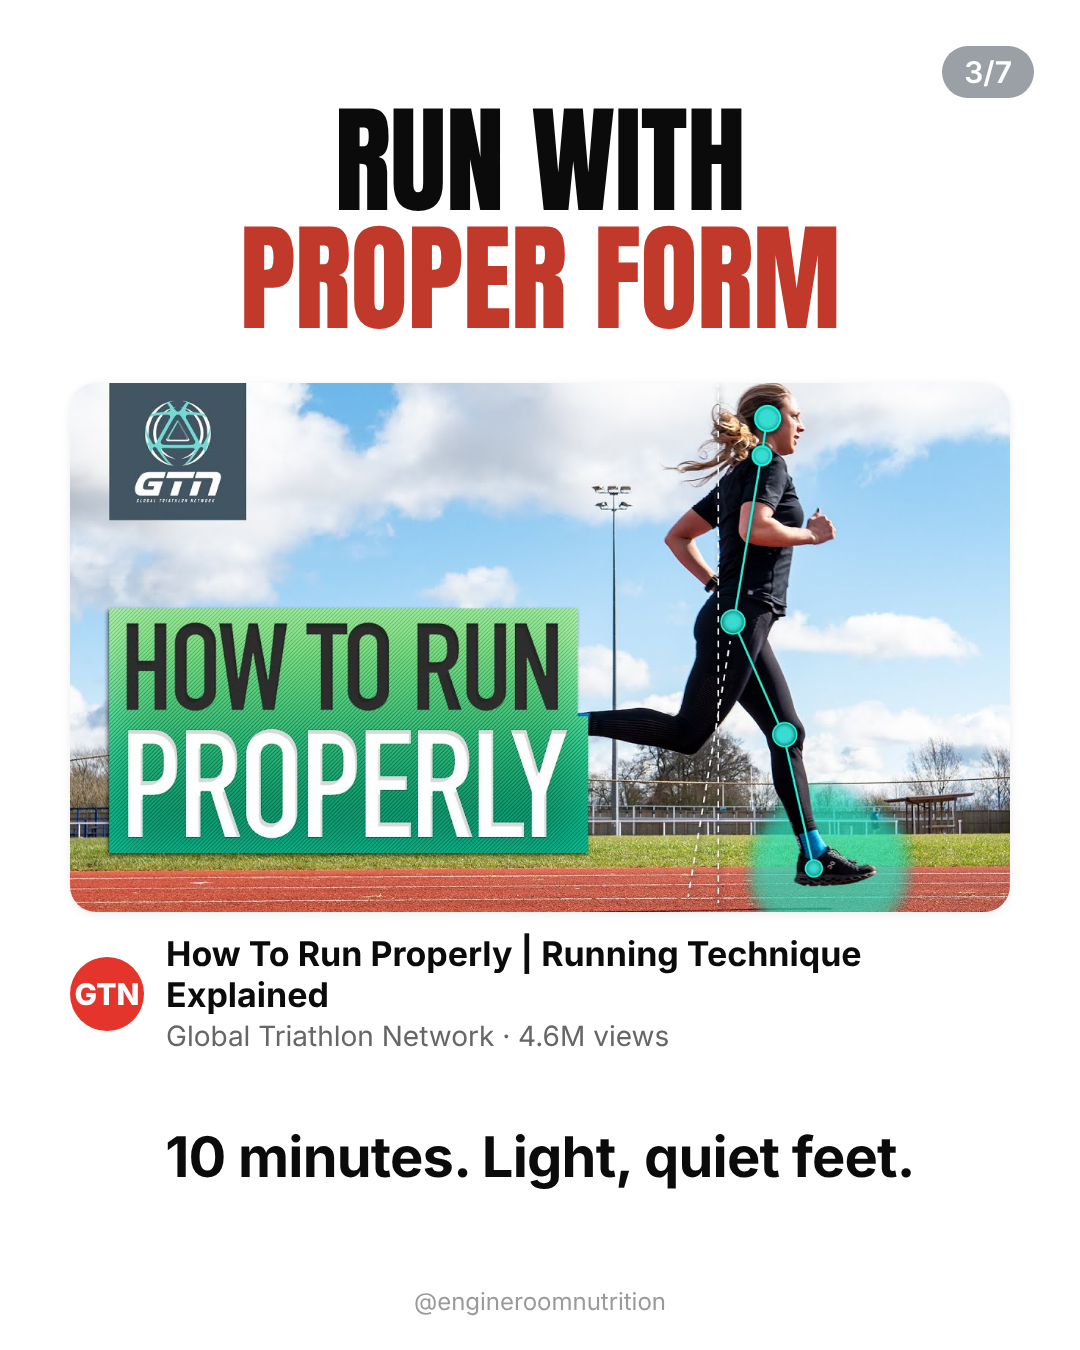
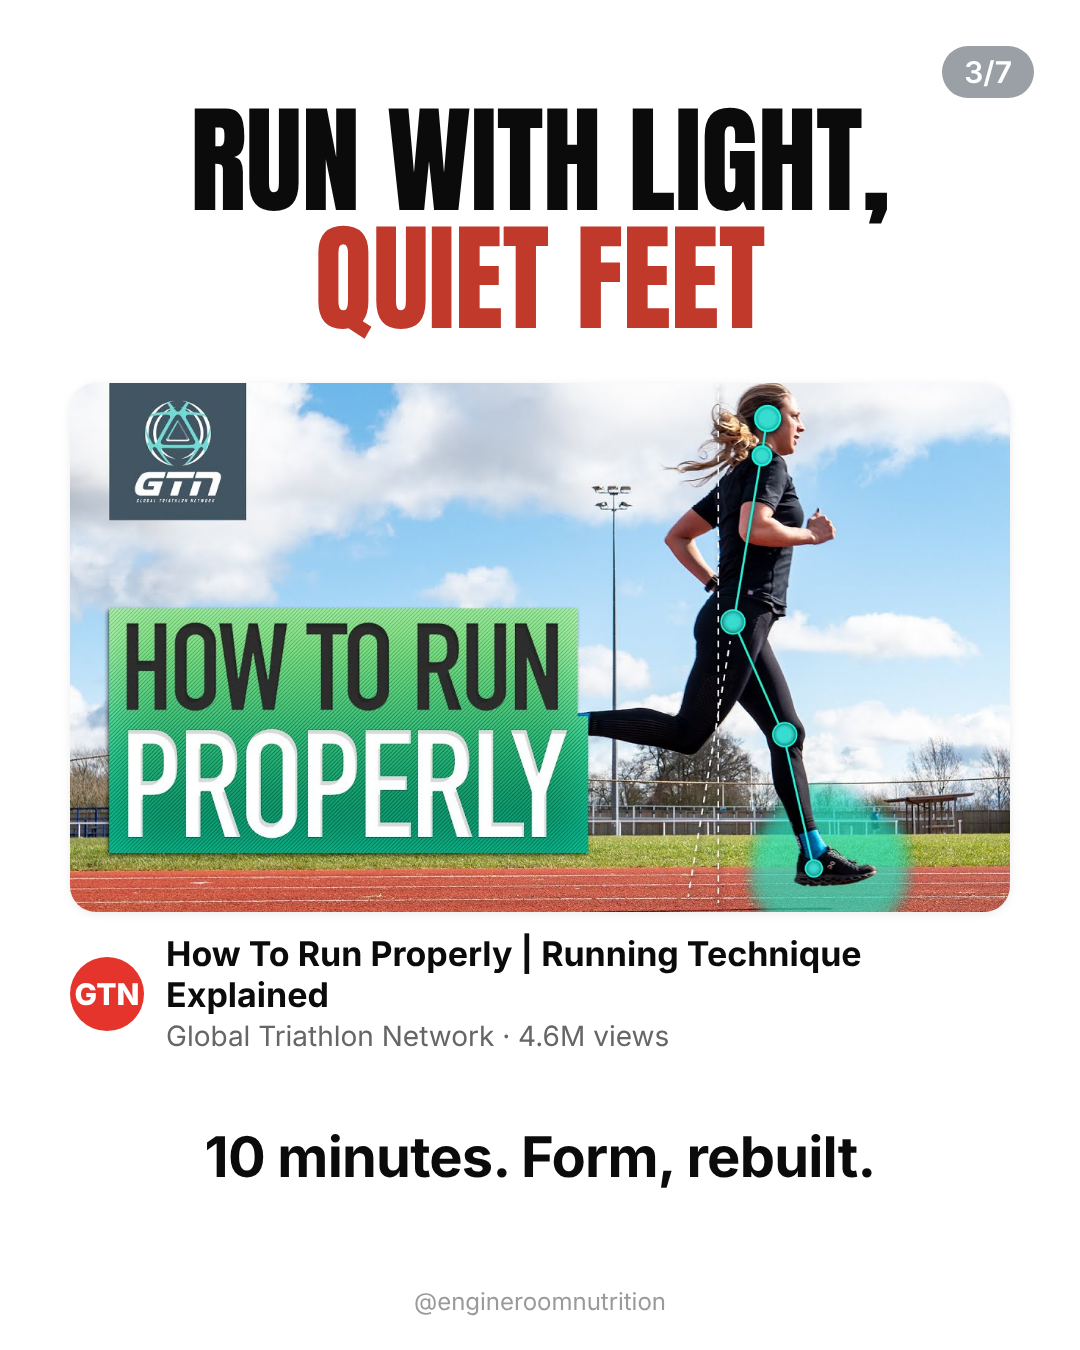
Carousel: mental-movie headlines, padlocked middle slide, comment PLAN
Claude-Session: https://claude.ai/code/session_01C5bFwjsy7wubJR84HAMdDJ

Changed region(s): [[0.1528, 0.0622, 0.825, 0.2489], [0.1528, 0.84, 0.825, 0.9022]]

diff --git a/motion/carousel-skills/carousel.html b/motion/carousel-skills/carousel.html
@@ -37,6 +37,7 @@ body{width:1080px;background:#fff;font-family:Inter,Arial,sans-serif;overflow:hi
 .signs{display:grid;grid-template-columns:repeat(4,1fr);gap:14px}
 .sg{background:#dfe7f3;border-radius:18px;padding:16px 8px;text-align:center;color:#5b6577;font-size:22px;font-weight:700;letter-spacing:2px}
 .sg div{font-size:46px;letter-spacing:0;color:#0f1730;filter:blur(8px)}
+.sg svg{display:block;margin:6px auto 0}
 .sg.on{background:#3d7be0;color:#dce8ff}.sg.on div{color:#fff;filter:none}
 .pill{display:flex;align-items:center;gap:20px;background:#111;color:#fff;border-radius:22px;padding:18px 26px;margin-top:22px}
 .pill .lg{width:70px;height:70px;border-radius:14px;background:#fff;color:#000;font-family:Anton;font-size:30px;display:flex;align-items:center;justify-content:center}
@@ -49,11 +50,11 @@ document.body.style.height=H+'px';
 const T='thumbs/';
 // [headline line 1, line 2, colour, thumb, avatar colour, initials, video title, channel · views · length, payoff]
 const S={
- 2:['BREATHE SO RUNNING','FEELS EASIER','#2342c8','11-pxn34Lx3CYY.jpg','#3a3f47','NR','How to Breathe so Running Feels EASIER!','Nicklas Rossner · 3.8M views','9 minutes. Talk, don\'t gasp.'],
- 3:['RUN WITH','PROPER FORM','#c0392b','02-_kGESn8ArrU.jpg','#e4342b','GTN','How To Run Properly | Running Technique Explained','Global Triathlon Network · 4.6M views','10 minutes. Light, quiet feet.'],
- 5:['RUN SLOW ENOUGH','(ZONE 2)','#2e7d4f','03-VAsYTcBdtOg.jpg','#6b4f3a','SS','I Tried Zone 2 Training for 3 Months','Shervin Shares · 4.4M views','13 minutes. Easy finally feels easy.'],
- 6:['RAISE YOUR','RUNNING CADENCE','#d35400','04-eacl52qzr4E.jpg','#1f6fd1','BP','How to Improve & Increase Running Cadence','Ben Parkes · 821K views','7 minutes. Quicker, lighter steps.'],
- 7:['LOCK YOUR HEELS','IN YOUR SHOES','#8a6a2f','05-jG_XzEjD9Ls.jpg','#2b2b2b','PF','How to tie a heel lock (Racer\'s Loop)','Profeet · 784K views','1 minute. No more heel slip.'],
+ 2:['RUN WITHOUT','GASPING FOR AIR','#2342c8','11-pxn34Lx3CYY.jpg','#3a3f47','NR','How to Breathe so Running Feels EASIER!','Nicklas Rossner · 3.8M views','9 minutes. 5 breathing fixes.'],
+ 3:['RUN WITH LIGHT,','QUIET FEET','#c0392b','02-_kGESn8ArrU.jpg','#e4342b','GTN','How To Run Properly | Running Technique Explained','Global Triathlon Network · 4.6M views','10 minutes. Form, rebuilt.'],
+ 5:['HOLD A CHAT ON','EVERY EASY RUN','#2e7d4f','03-VAsYTcBdtOg.jpg','#6b4f3a','SS','I Tried Zone 2 Training for 3 Months','Shervin Shares · 4.4M views','13 minutes. Zone 2, explained.'],
+ 6:['TAKE QUICKER,','LIGHTER STEPS','#d35400','04-eacl52qzr4E.jpg','#1f6fd1','BP','How to Improve & Increase Running Cadence','Ben Parkes · 821K views','7 minutes. Cadence, sorted.'],
+ 7:['STOP YOUR HEEL','SLIPPING MID-RUN','#8a6a2f','05-jG_XzEjD9Ls.jpg','#2b2b2b','PF','How to tie a heel lock (Racer\'s Loop)','Profeet · 784K views','1 minute. One extra loop.'],
 };
 const p=document.getElementById('p');
 const gap=H>1400?1:0.82;
@@ -67,14 +68,14 @@ if(n===1){
   <div class="small" style="font-size:28px;margin-top:8px">(save this for your next easy run)</div>`;
 } else if(n===4){
   p.innerHTML=`<div style="height:${Math.round(H*.075)}px"></div>
-  <div class="anton h1">HIT EVERY 10K<br><span style="color:#2f6fd6">SIGN ON TIME</span></div>
+  <div class="anton h1">KNOW YOUR TIME<br><span style="color:#2f6fd6">AT EVERY 10K SIGN</span></div>
   <div style="height:${Math.round(46*gap)}px"></div>
   <div class="site"><div class="clock"><div class="ct"><span>● YOUR FINISH TIME</span><span class="goal">GOAL</span></div>
     <div class="anton big">3:45<small>:00</small></div><div class="bar"><i></i><b></b></div>
     <div class="ticks"><span>3:00</span><span>4:15</span><span>5:30</span></div></div>
-    <div class="signs"><div class="sg on">10K SIGN<div>54:00</div></div><div class="sg">20K SIGN<div>1:48</div></div><div class="sg">30K SIGN<div>2:41</div></div><div class="sg">40K SIGN<div>3:34</div></div></div></div>
-  <div class="pay" style="margin-top:${Math.round(40*gap)}px">30 seconds. Your 4 times, free.</div>
-  <div class="pill" style="width:940px"><div class="lg">ERN</div><div class="tx"><div class="t1">engineroomnutrition.com</div><div class="t2">Free marathon pace plan · 100+ sent</div></div><div class="op">Open</div></div>`;
+    <div class="signs"><div class="sg on">10K SIGN<div>54:00</div></div><div class="sg">20K SIGN<div>1:48</div><svg width="34" height="40" viewBox="0 0 34 40"><path d="M8 17V11a9 9 0 0 1 18 0v6" fill="none" stroke="#b08a2e" stroke-width="4"/><rect x="2" y="17" width="30" height="21" rx="4" fill="#e0b84a"/></svg></div><div class="sg">30K SIGN<div>2:41</div><svg width="34" height="40" viewBox="0 0 34 40"><path d="M8 17V11a9 9 0 0 1 18 0v6" fill="none" stroke="#b08a2e" stroke-width="4"/><rect x="2" y="17" width="30" height="21" rx="4" fill="#e0b84a"/></svg></div><div class="sg">40K SIGN<div>3:34</div><svg width="34" height="40" viewBox="0 0 34 40"><path d="M8 17V11a9 9 0 0 1 18 0v6" fill="none" stroke="#b08a2e" stroke-width="4"/><rect x="2" y="17" width="30" height="21" rx="4" fill="#e0b84a"/></svg></div></div></div>
+  <div class="pay" style="margin-top:${Math.round(40*gap)}px">30 seconds. Unlock all 4, free.</div>
+  <div class="pill" style="width:940px"><div class="lg">ERN</div><div class="tx"><div class="t1">Comment PLAN for yours</div><div class="t2">engineroomnutrition.com · 100+ runners have theirs</div></div><div class="op">FREE</div></div>`;
 } else {
   const [a,b,c,f,av,ini,vt,vs,pay]=S[n];
   p.innerHTML=`<div style="height:${Math.round(H*.075)}px"></div>

diff --git a/ideas/engine-room-nutrition/2026-11-26-carousel-elite-skills.md b/ideas/engine-room-nutrition/2026-11-26-carousel-elite-skills.md
@@ -3,24 +3,24 @@
 Slides `motion/carousel-skills/tiktok-3x4/` (TikTok photo mode) and `instagram-4x5/`, source `motion/carousel-skills/carousel.html`. Videos `2026-11-25-carousel-elite-skills-videos.md`. Format: slow internet club (P211, white, 7 slides). No photo of Luke on the cover (Luke, 26 Nov: it didn't work on the gut carousel); the cover uses their 2.9M "pointless skills" layout, 10/10 above a 2x2 thumbnail grid.
 
 1. Cover: 10/10 / ELITE (red) RUNNING SKILLS / YOU CAN LEARN / IN 1 DAY + (save this for your next easy run)
-2. BREATHE SO RUNNING / FEELS EASIER: Nicklas Rossner 3.8M. "9 minutes. Talk, don't gasp."
-3. RUN WITH / PROPER FORM: GTN 4.6M. "10 minutes. Light, quiet feet."
-4. **Website (the middle slot):** HIT EVERY 10K / SIGN ON TIME, the pace-plan clock redrawn (3:45 -> 10K 54:00, the rest blurred as on the site). "30 seconds. Your 4 times, free." + engineroomnutrition.com pill (free marathon pace plan · 100+ sent).
-5. RUN SLOW ENOUGH / (ZONE 2): Shervin Shares 4.4M. "13 minutes. Easy finally feels easy."
-6. RAISE YOUR / RUNNING CADENCE: Ben Parkes 821K. "7 minutes. Quicker, lighter steps."
-7. LOCK YOUR HEELS / IN YOUR SHOES: Profeet 784K. "1 minute. No more heel slip."
+2. RUN WITHOUT / GASPING FOR AIR: Nicklas Rossner 3.8M. "9 minutes. 5 breathing fixes."
+3. RUN WITH LIGHT, / QUIET FEET: GTN 4.6M. "10 minutes. Form, rebuilt."
+4. **Website (the middle slot, the email ask):** KNOW YOUR TIME / AT EVERY 10K SIGN, the pace-plan clock redrawn (3:45 -> 10K 54:00; 20K, 30K, 40K blurred with padlocks as on the site; the blurred numbers are placeholders). "30 seconds. Unlock all 4, free." + bar: Comment PLAN for yours · engineroomnutrition.com · 100+ runners have theirs.
+5. HOLD A CHAT ON / EVERY EASY RUN: Shervin Shares 4.4M. "13 minutes. Zone 2, explained."
+6. TAKE QUICKER, / LIGHTER STEPS: Ben Parkes 821K. "7 minutes. Cadence, sorted."
+7. STOP YOUR HEEL / SLIPPING MID-RUN: Profeet 784K. "1 minute. One extra loop."
 
-P248: every payoff line is a sense (hear: gasp, quiet feet; feel: easy, lighter, heel slip). Thumbnails are the creators', credited with channel and views on each slide.
+P248 (26 Nov rewrite): the headline is the mental movie (see, hear, feel: gasping, quiet feet, a chat, lighter steps, heel slipping), the payoff line is the time + what's in the video, never a repeat of the headline. Thumbnails are the creators', credited with channel and views on each slide.
 
 ## Caption (paste)
 Five skills that make running feel easier, each one learnable in an afternoon, from the coaches with the most-watched videos on each. Start with the breathing one if your easy runs leave you gasping, and do the heel lock before your next long run; it takes a minute and you'll feel the difference in the first K.
 
 Slide 4 is ours: drag the clock on engineroomnutrition.com to your goal time and get the time to hit at every 10K sign, free. Over 100 runners have one already.
 
-Comment SKILLS and I'll email you all five links plus your pace plan.
+Comment PLAN and I'll email you your time at every 10K sign plus all five links.
 
 ## Pinned comment
-Which skill are you trying first? Comment SKILLS for the links by email.
+Which skill are you trying first? Comment PLAN for your 4 clock times and all five links by email.
 
 ## Cover photo (26 Nov, Luke: an elite runner, not Luke)
 Conner Mantz, 2025 Chicago Marathon, Wikimedia Commons, **CC0 (public domain, no credit needed)**: https://commons.wikimedia.org/wiki/File:Conner_Mantz_2025_Chicago_Marathon.jpg. Cut out with rembg (`motion/carousel-skills/photos/mantz-cutout.png`), running across the 10/10 like slow internet club's perched cut-outs; the thumbnail grid is off the cover; (part 1) added. Nike and Bank of America logos are on his kit and bib (as in the photo).
